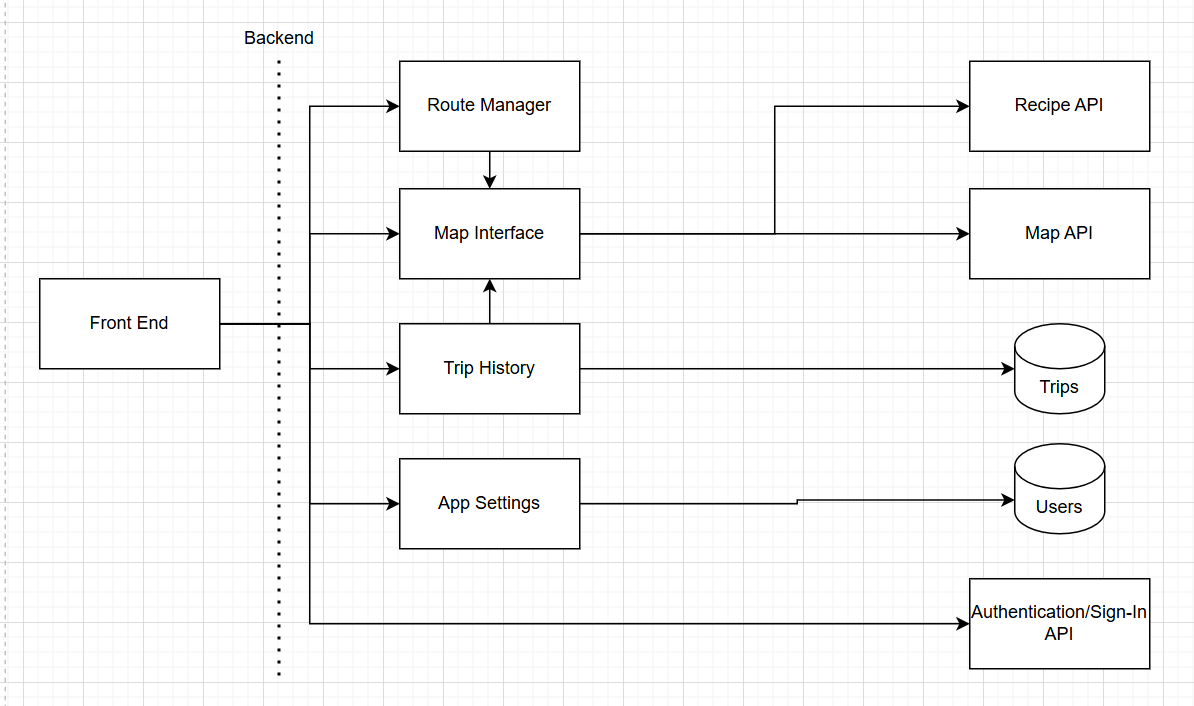
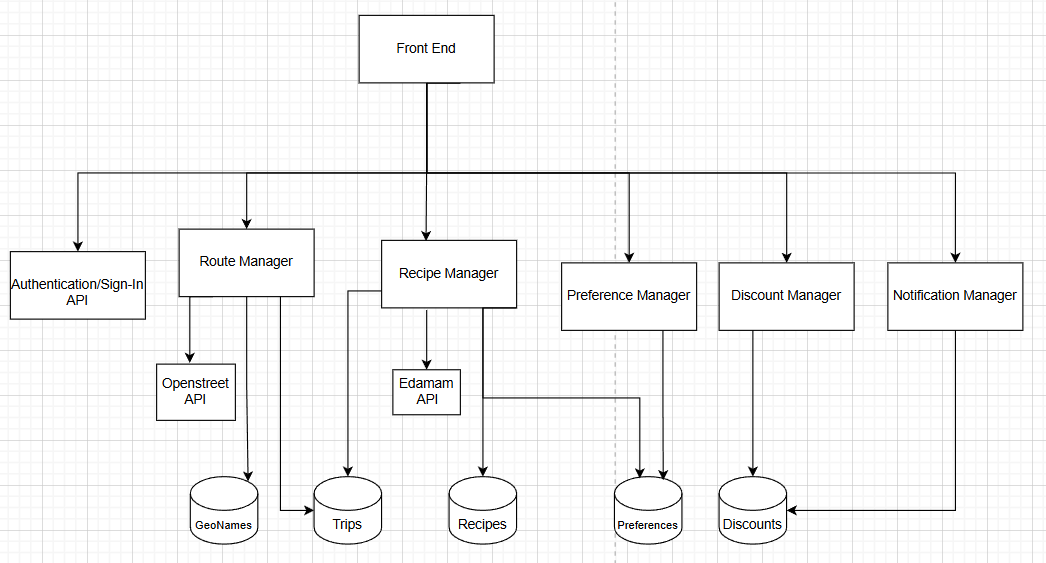
replaced dependency diagram

diff --git a/documentation/M3_Requirements_and_Design.md b/documentation/M3_Requirements_and_Design.md
@@ -21,7 +21,7 @@ The reason for changing our diagram is based on comments from our M3. We also re
     - Section 4.4: Likewise updated frameworks to reflect changes in use cases
     - Section 4.6: Updated sequence diagrams to reflect every main use case and to follow REST call structure
     - Section 4.7: Updated to reflect non-functional requirement changes
-  -March 21, 2025
+- March 21, 2025
     - These updates happened after the mutual handoff, and thus should not be considered if referenced by code review
     - Section 3.5: After discussion with instructors, updates sources and added brief explanations after each source
     - Section 4.7: Updated description of Non-Functional Requirements testing to accurately reflect the tests performed
@@ -431,7 +431,7 @@ Not necessary to explain our requirements.
 
 ### **4.8. Main Project Complexity Design**
 **Generate Recipes and Route**
-- **Description**: Converts a virtual trip from a pair of city names into a list of recipes. Formally, it takes a pair of strings and an integer, converts the strings into a route(series of coordinates) by via ~ API, then searches for the names of cities nearby. After cities are found, recipes for each city is found by extracting the name of the city from the route and quering through Edamam API. The user may specify dietary restrictions, which would be relevant as it may arbitrarily restrict the recipes that are associated with the selected virtual path
+- **Description**: Converts a virtual trip from a pair of city names into a list of recipes. Formally, it takes a pair of strings and an integer, converts the strings into a route(series of coordinates) by via Edamam API, then searches for the names of cities nearby. After cities are found, recipes for each city is found by extracting the name of the city from the route and quering through Edamam API. The user may specify dietary restrictions, which would be relevant as it may arbitrarily restrict the recipes that are associated with the selected virtual path
 - **Why complex?**: Since virtually trips are meant to be somewhat feasible to physically travel, many different paths could be taken depending on the forms of transportation available, meaning that there are many different viable virtual paths. For any given virtual path, the algorithm must be able to determine what recipes are associated with that path, and then find a combination of recipes that satisfies the number of dishes whilst obeying user dietary restrictions
 - **Design**:
     - **Input**: start, The name of the city to begin at
